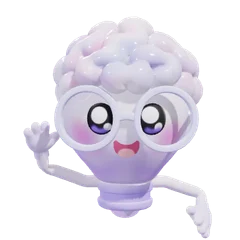
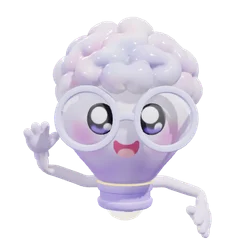
Give the Original Acey glass lenses and a warm bulb glow
The approved render shows clear lenses in the glasses and a lit bulb. The
Original now has domed glass lenses with a crescent of reflected light, a
warm glowing tip and an amber line where the glass meets the screw base.

diff --git a/frontend/src/components/mascot/mascotModel.js b/frontend/src/components/mascot/mascotModel.js
@@ -65,7 +65,8 @@ export const configureModel = (model, { keepColors = false } = {}) => {
           : color.l;
         material.color.setHSL(color.h, softenedSaturation, softenedLightness);
       }
-      if (Number.isFinite(material.emissiveIntensity)) {
+      // Approved colors keep their glow (the Original's warm bulb light).
+      if (Number.isFinite(material.emissiveIntensity) && !keepColor) {
         material.emissiveIntensity = Math.min(material.emissiveIntensity, 0.32);
       }
       material.needsUpdate = true;

diff --git a/frontend/public/mascot/README.md b/frontend/public/mascot/README.md
@@ -107,6 +107,12 @@ Roles (2026-09-16 night), numbered 01–12:
 | 08 Fashion | `poses/fashion.glb` | `body_AO_TT2.glb` without `pSphere8` (a bind-pose copy of the Technician's hat, harness and belt); its pink designer bag (175 parts) replaced by the purple tote with yellow dots from the render (`tmp/build-fashion-bag.mjs`). Garment id `activewear` (AO_TT, "thời trang"). |
 | 10 Cozy / 11 Gamer | unchanged assets | Renamed: the pink hooded jacket with a mug is Cozy, the hoodie with headphones and controller is Gamer. |
 
+The Original also carries the render's details (`tmp/build-original.mjs`): clear
+domed glass lenses in the glasses (fitted to the rims by `tmp/glasses-rings.mjs`)
+with a crescent of reflected light, a warm glowing bulb tip and an amber line
+where the glass meets the screw base. Approved glows keep their strength
+(`configureModel` no longer caps emissive light on `keepColor` materials).
+
 The Engineer's brain is now its own material (`engineer_brain`, the 2,977-vertex
 piece split out of the skin mesh), so brain colors apply to it too.
 
